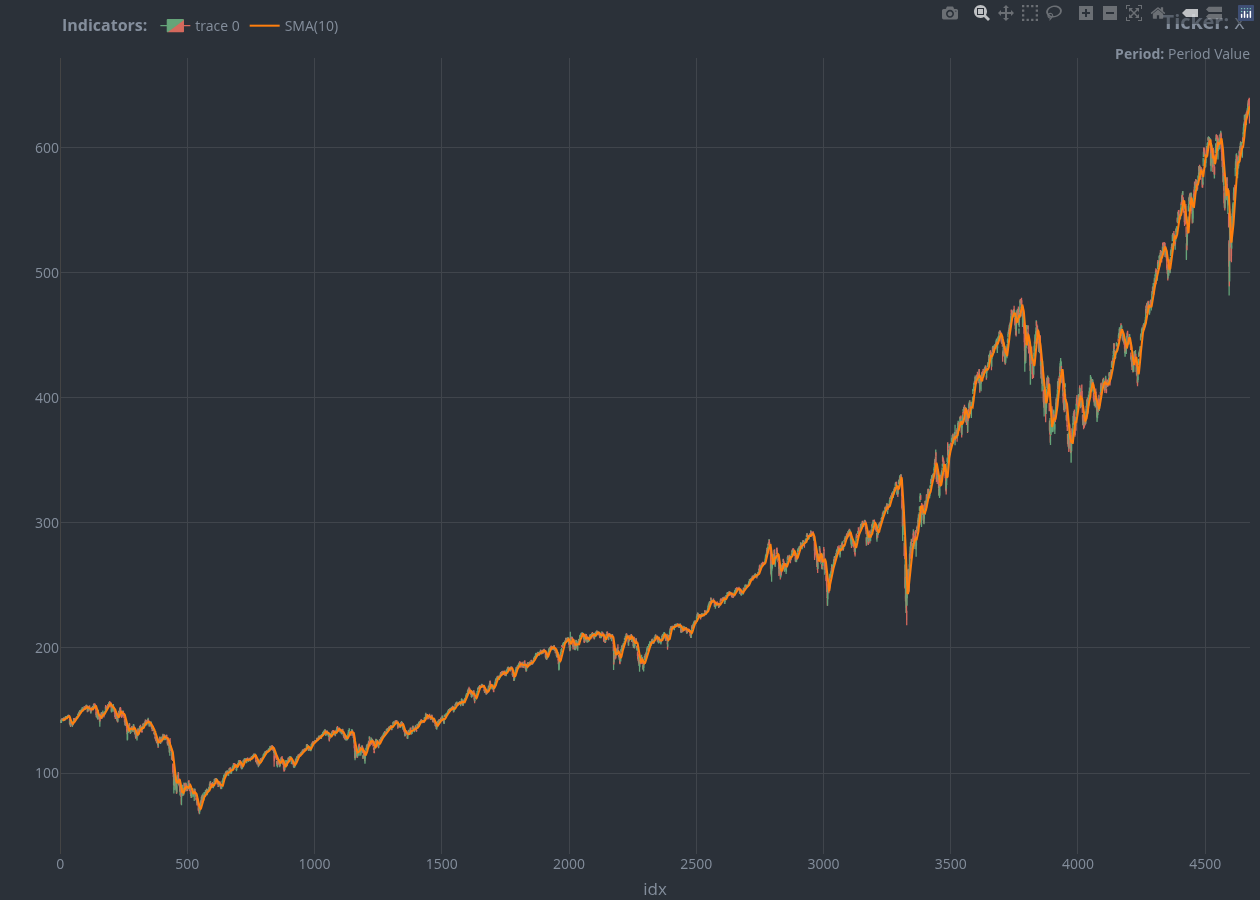
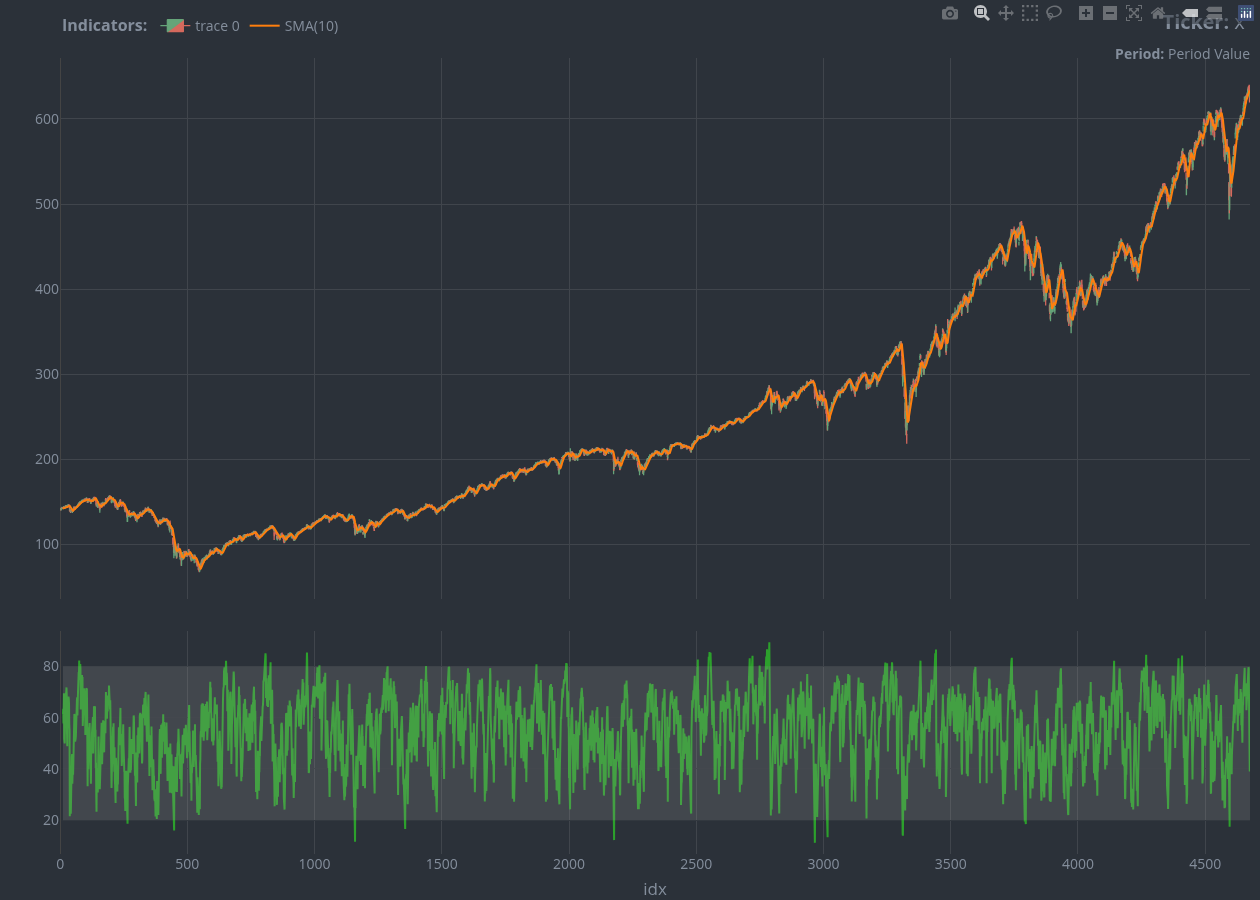
:hammer: Updated Stuff

diff --git a/README.md b/README.md
@@ -7,7 +7,11 @@
 
 <!-- badges: end -->
 
-The goal of talib is to …
+{talib} provides R bindings for
+[TA-Lib](https://github.com/TA-Lib/ta-lib), a C-library for Technical
+Analysis indicators and Candlestick patterns.
+
+{talib} also provides interactive financial charts based on {plotly}.
 
 ## Installation
 
@@ -25,6 +29,22 @@ pak::pak("serkor1/curly-giggle")
 
 This is a basic example which shows you how to solve a common problem:
 
+``` r
+library(talib)
+
+## calculate bollinger
+## bands
+x <- talib::SPY
+
+## calculate bollinger
+## bands
+tail(
+  talib::bollinger_bands(
+    x[,1]
+  )
+)
+```
+
     #>            upper  middle    lower
     #> [4671,] 638.7501 630.155 621.5599
     #> [4672,] 640.8957 631.238 621.5803
@@ -34,5 +54,35 @@ This is a basic example which shows you how to solve a common problem:
     #> [4676,] 642.7450 633.352 623.9590
 
 ### Charting
+
+``` r
+library(talib)
+
+## calculate bollinger
+## bands
+x <- talib::SPY
+
+{
+  ## calculate bollinger
+  ## bands
+  talib::chart(
+    x = x
+  )
+
+  ## add bollinger bands
+  ## to the chart
+  talib::indicator(
+    .f = talib::SMA(),
+    .var = ~close
+  )
+
+  ## add bollinger bands
+  ## to the chart
+  talib::indicator(
+    .f = talib::RSI(),
+    .var = ~close
+  )
+}
+```
 
 <img src="man/figures/README-charting-1.png" style="display: block; margin: auto;" />
